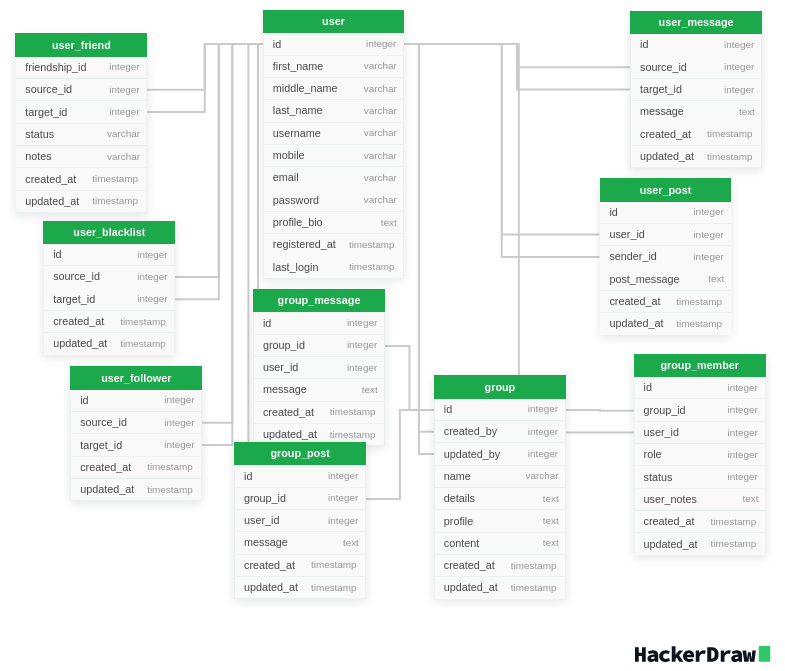
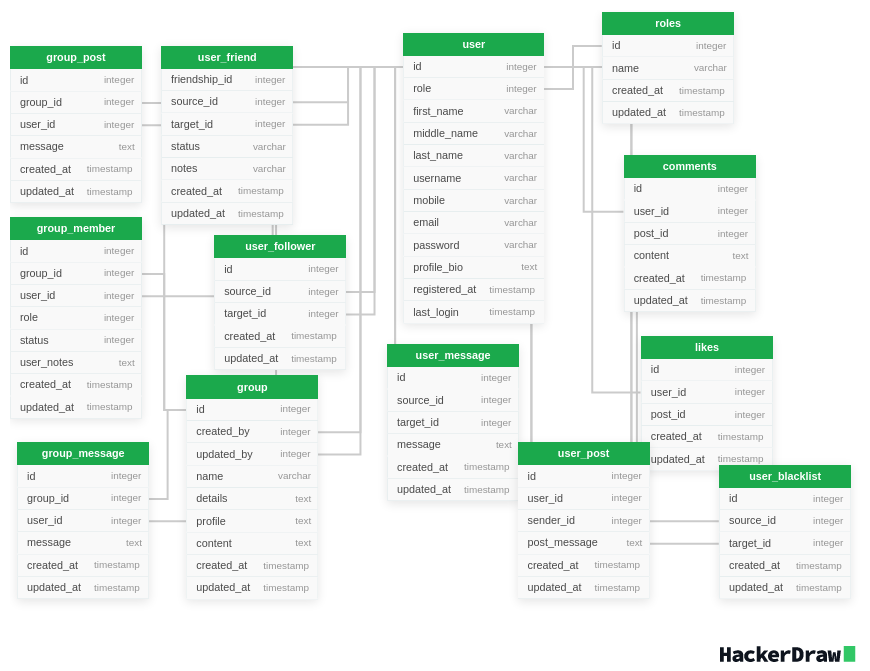
Homework 13. Databases. New files added

diff --git a/docs/README.md b/docs/README.md
@@ -1,0 +1,228 @@
+1. Social network database model:
+https://www.hackerdraw.com/docs/3ec3d8c4-9563-4b44-8f7e-325a88b643e1
+
+### hackerdraw source-code:
+
+```
+Table user {
+  id integer
+  role integer
+  first_name varchar
+  middle_name varchar
+  last_name varchar
+  username varchar
+  mobile varchar
+  email varchar
+  password varchar
+  profile_bio text
+  registered_at timestamp
+  last_login timestamp
+}
+
+Table roles {
+    id integer
+    name varchar
+    created_at timestamp
+    updated_at timestamp
+
+}
+
+Ref: user.role > roles.id
+
+Table comments {
+    id integer
+    user_id integer
+    post_id integer
+    content text
+    created_at timestamp
+    updated_at timestamp
+}
+
+Ref: comments.user_id > user.id
+
+Ref: comments.post_id > user_post.id
+
+Table likes {
+    id integer
+    user_id integer
+    post_id integer
+    created_at timestamp
+    updated_at timestamp
+}
+
+Ref: likes.user_id > user.id
+
+Ref: likes.post_id > user_post.id
+
+Table user_friend {
+  friendship_id integer
+  source_id integer
+  target_id integer
+  status varchar
+  notes varchar
+  created_at timestamp
+  updated_at timestamp
+}
+
+Ref: user_friend.source_id > user.id
+
+Ref: user_friend.target_id > user.id
+
+Table user_blacklist {
+  id integer
+  source_id integer
+  target_id integer
+  created_at timestamp
+  updated_at timestamp
+}
+Ref: user_blacklist.source_id > user.id
+
+Ref: user_blacklist.target_id > user.id
+
+Table user_follower {
+  id integer
+  source_id integer
+  target_id integer
+  created_at timestamp
+  updated_at timestamp
+}
+
+Ref: user_follower.source_id > user.id
+
+Ref: user_follower.target_id > user.id
+
+Table user_message {
+  id integer
+  source_id integer
+  target_id integer
+  message text
+  created_at timestamp
+  updated_at timestamp
+}
+
+Ref: user_message.source_id > user.id
+
+Ref: user_message.target_id > user.id
+
+Table user_post {
+  id integer
+  user_id integer
+  sender_id integer
+  post_message text
+  created_at timestamp
+  updated_at timestamp
+}
+
+Ref: user_post.user_id > user.id
+
+Ref: user_post.sender_id > user.id
+
+Table group {
+  id integer
+  created_by integer
+  updated_by integer
+  name varchar
+  details text
+  profile text
+  content text
+  created_at timestamp
+  updated_at timestamp
+}
+
+Ref: group.created_by > user.id
+
+Ref: group.updated_by > user.id
+
+Table group_message {
+  id integer
+  group_id integer
+  user_id integer
+  message text
+  created_at timestamp
+  updated_at timestamp
+}
+
+Ref: group_message.group_id > group.id
+
+Ref: group_message.user_id > user.id
+
+Table group_member {
+  id integer
+  group_id integer
+  user_id integer
+  role integer
+  status integer
+  user_notes text
+  created_at timestamp
+  updated_at timestamp
+}
+
+Ref: group_member.group_id > group.id
+
+Ref: group_member.user_id > user.id
+
+Table group_post {
+  id integer
+  group_id integer
+  user_id integer
+  message text
+  created_at timestamp
+  updated_at timestamp
+}
+
+Ref: group_post.group_id > group.id
+```
+
+
+2. Car service database model:
+www.hackerdraw.com/viewer/3faef111ad7c4bb8925b1898c36d8198
+
+### hackerdraw source-code
+
+```
+Table client {
+  id integer
+  username varchar
+  password varchar
+  role integer
+  last_name varchar
+  first_name varchar
+  adress_id varchar
+  created_at timestamp
+  updated_at timestamp
+}
+
+Ref: visit.client_id > client.id
+
+Ref: visit.service_id > client.id
+
+Table visit {
+  id integer
+  client_id integer
+  service_id integer
+  quantity integer
+  input_date timestamp
+  output_date timestamp
+}
+
+Ref: role.id > client.role
+
+Table role {
+  id integer
+  name varchar
+  created_at timestamp
+  updated_at timestamp
+}
+
+Table services {
+  id integer
+  name varchar
+  description text
+  duration_hours integer
+  service_price money
+  created_at timestamp
+  updated_at timestamp
+}
+
+Ref: services.id > visit.service_id
+```
